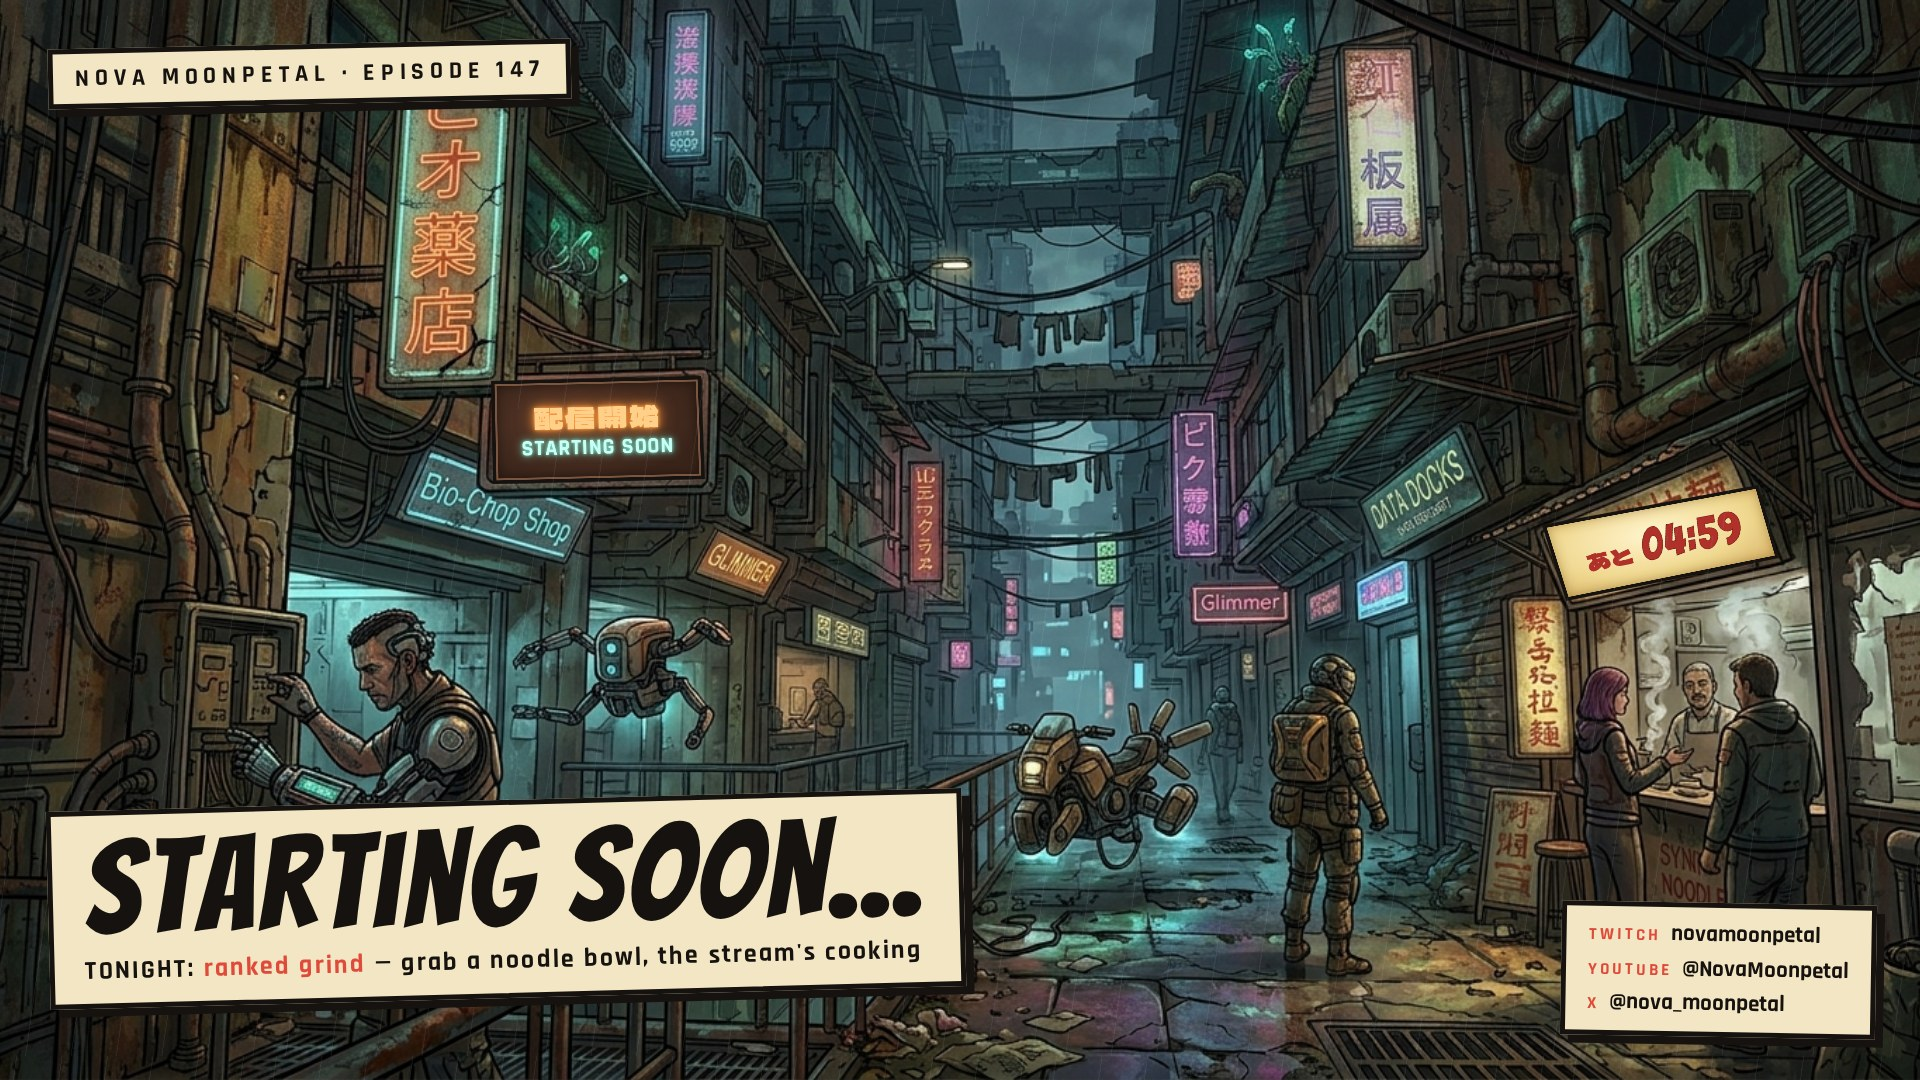
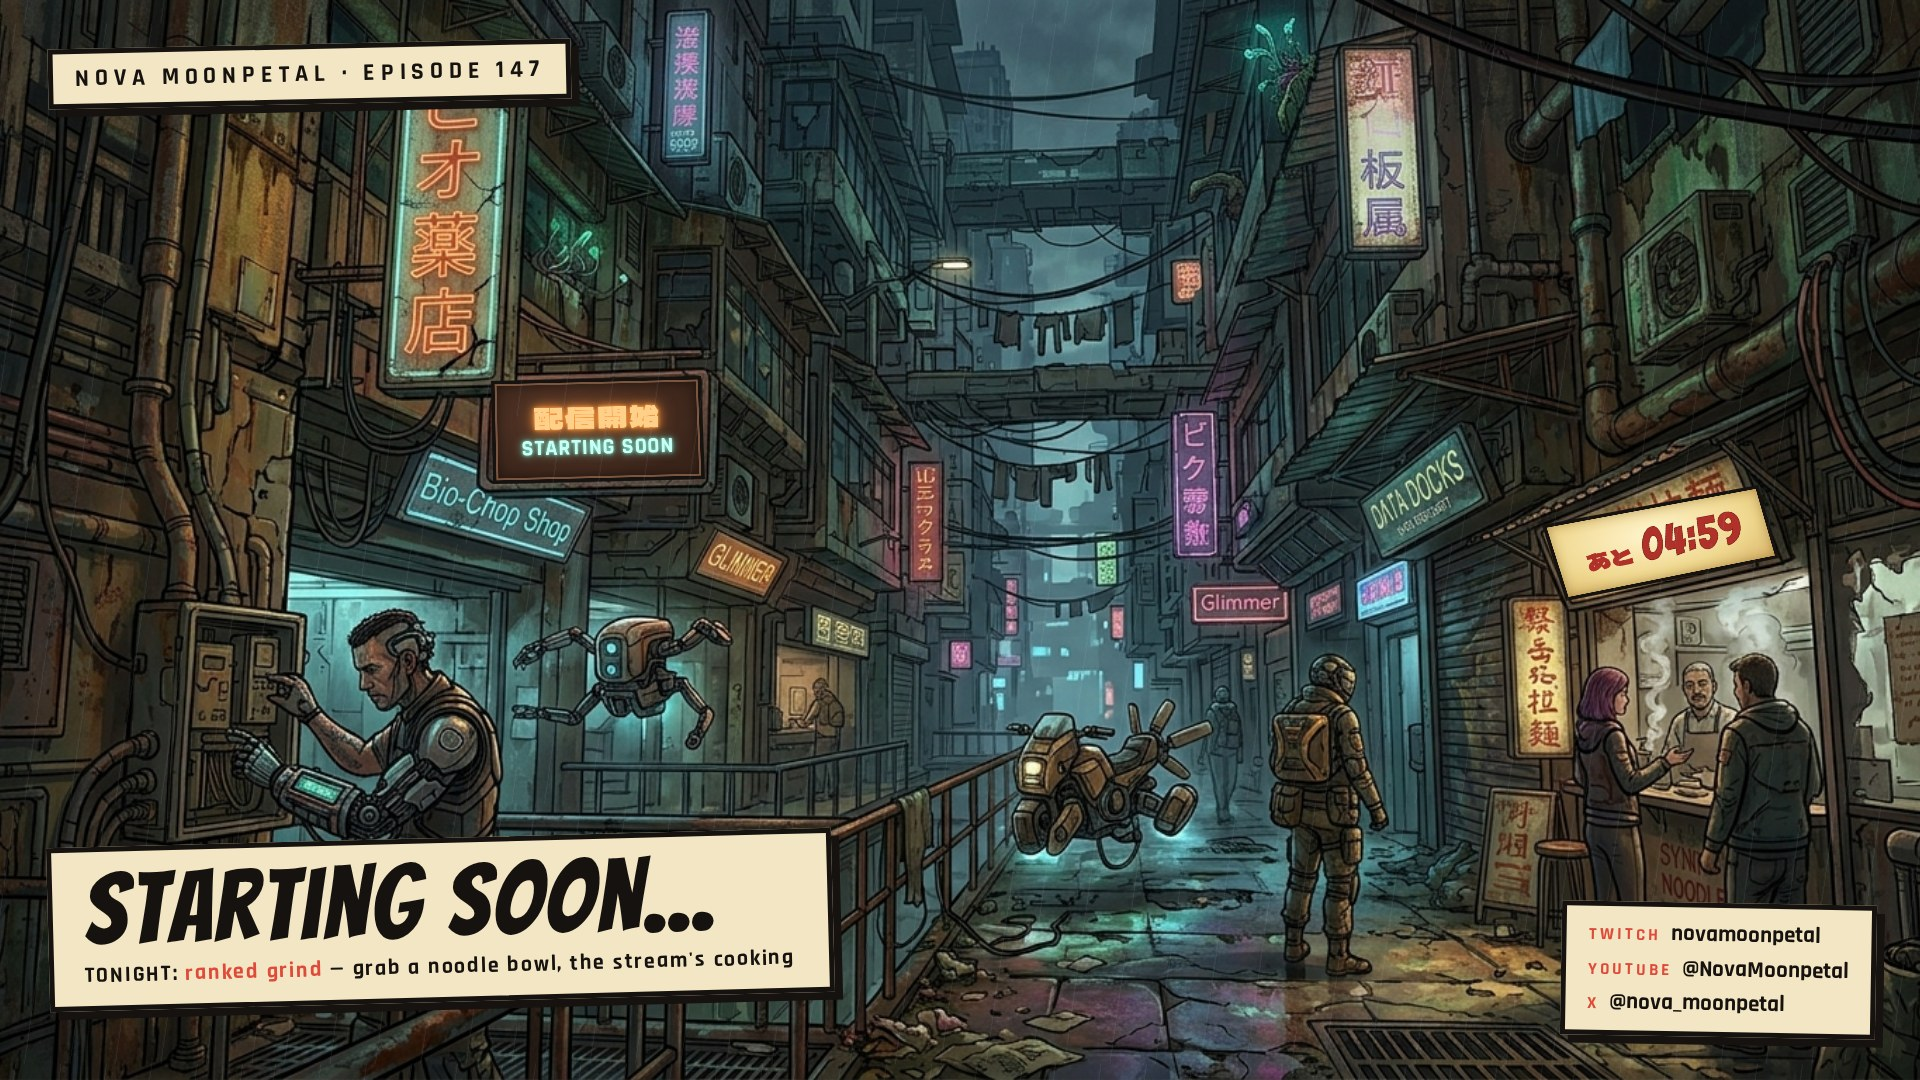
Let the background art show through the v4 overlays
- Start screens: replace full-width dark gradients with a corner
  shade behind the text only; smaller titles
- Live screens: no blur, light dimming, game window cut to 1280x720 so
  the right column and bottom show the art; chat moves under the game
- In-world signs stay visible on the live screens (NOVA'S TERRITORY;
  noodle-stand sign becomes the follower goal)

Claude-Session: https://claude.ai/code/session_01RqGbo7n9pbq5c1PJZY71Su

Changed region(s): [[0.0, 0.7333, 0.5312, 0.9472]]

diff --git a/mockups/v4/neon-street.html b/mockups/v4/neon-street.html
@@ -27,44 +27,44 @@
     .sign.cyan span { margin-top: 8px; font: 700 40px/1 "Barlow Condensed"; letter-spacing: 0.1em; color: #d8fbff; text-shadow: 0 0 10px var(--cyan), 0 0 22px var(--cyan); }
 
     /* ---- START: cinematic HUD ---- */
-    .shade-bottom { left: 0; right: 0; bottom: 0; height: 520px; background: linear-gradient(180deg, transparent, rgba(3, 3, 10, 0.72) 45%, rgba(3, 3, 10, 0.94)); }
-    .shade-left { left: 0; top: 0; bottom: 0; width: 1100px; background: linear-gradient(90deg, rgba(3, 3, 10, 0.55), transparent); }
+    .shade-bottom { left: 0; bottom: 0; width: 1200px; height: 420px; background: radial-gradient(ellipse 900px 380px at 0% 100%, rgba(3, 3, 10, 0.82), rgba(3, 3, 10, 0.5) 55%, transparent 80%); }
+    .shade-left { display: none; }
     .standby { left: 80px; top: 64px; display: flex; align-items: center; gap: 14px; font: 600 22px "Rajdhani"; letter-spacing: 0.4em; color: rgba(255, 255, 255, 0.85); }
     .standby i { width: 12px; height: 12px; border-radius: 50%; background: #ff3b5c; box-shadow: 0 0 12px #ff3b5c; animation: blink 1.2s steps(1) infinite; }
     @keyframes blink { 50% { opacity: 0.2; } }
-    .meta { left: 84px; top: 690px; font: 600 24px "Rajdhani"; letter-spacing: 0.32em; color: var(--cyan); text-shadow: 0 0 14px rgba(110, 243, 255, 0.6); }
-    .title { left: 76px; top: 718px; margin: 0; font: 700 176px/1 "Barlow Condensed"; letter-spacing: 0.01em; text-transform: uppercase; color: #fff; text-shadow: 0 6px 40px rgba(0, 0, 0, 0.6); }
-    .row { left: 84px; top: 918px; display: flex; align-items: center; gap: 34px; }
-    .count { font: 500 84px/1 "Barlow Condensed"; font-variant-numeric: tabular-nums; color: var(--amber); text-shadow: 0 0 22px rgba(255, 200, 97, 0.45); }
+    .meta { left: 84px; top: 764px; font: 700 24px "Rajdhani"; letter-spacing: 0.32em; color: var(--cyan); text-shadow: 0 2px 4px #000, 0 0 18px rgba(0, 0, 0, 0.9); }
+    .title { left: 78px; top: 790px; margin: 0; font: 700 128px/1 "Barlow Condensed"; letter-spacing: 0.01em; text-transform: uppercase; color: #fff; text-shadow: 0 4px 10px rgba(0, 0, 0, 0.7), 0 6px 40px rgba(0, 0, 0, 0.6); }
+    .row { left: 84px; top: 940px; display: flex; align-items: center; gap: 34px; }
+    .count { font: 500 72px/1 "Barlow Condensed"; font-variant-numeric: tabular-nums; color: var(--amber); text-shadow: 0 0 22px rgba(255, 200, 97, 0.45); }
     .vr { width: 2px; height: 70px; background: rgba(255, 255, 255, 0.3); }
     .tonight small { display: block; font: 600 18px "Rajdhani"; letter-spacing: 0.4em; color: rgba(255, 255, 255, 0.55); }
     .tonight b { font: 600 34px "Rajdhani"; letter-spacing: 0.02em; }
-    .socials { right: 80px; bottom: 60px; text-align: right; font: 600 24px/1.7 "Rajdhani"; letter-spacing: 0.04em; }
+    .socials { right: 60px; bottom: 44px; padding: 14px 22px; text-align: right; font: 600 22px/1.6 "Rajdhani"; letter-spacing: 0.04em; background: rgba(3, 3, 10, 0.55); backdrop-filter: blur(6px); }
     .socials span { color: var(--cyan); letter-spacing: 0.3em; font-size: 16px; margin-right: 12px; }
 
     /* ---- LIVE ---- */
-    .art.dim { filter: brightness(0.42) saturate(1.2) blur(2px); transform: scale(1.03); }
-    .game { left: 40px; top: 40px; width: 1392px; height: 783px; outline: 1px solid rgba(110, 243, 255, 0.55); outline-offset: 6px; box-shadow: 0 30px 60px rgba(0, 0, 0, 0.6); }
+    .art.dim { filter: brightness(0.9) saturate(1.1); }
+    .game { left: 40px; top: 40px; width: 1280px; height: 720px; outline: 1px solid rgba(110, 243, 255, 0.55); outline-offset: 6px; box-shadow: 0 30px 60px rgba(0, 0, 0, 0.6); }
     .game canvas { width: 100%; height: 100%; display: block; }
     .brk { position: absolute; width: 34px; height: 34px; border: 3px solid var(--cyan); filter: drop-shadow(0 0 6px var(--cyan)); }
     .tag { position: absolute; left: 22px; top: 20px; display: flex; align-items: center; gap: 10px; padding: 6px 16px; background: rgba(5, 6, 11, 0.75); font: 700 20px "Rajdhani"; letter-spacing: 0.3em; }
     .tag i { width: 10px; height: 10px; border-radius: 50%; background: #ff3b5c; box-shadow: 0 0 10px #ff3b5c; }
     .tag b { font-weight: 500; letter-spacing: 0.1em; color: rgba(255, 255, 255, 0.7); }
-    .chat { left: 1470px; top: 40px; width: 410px; height: 540px; padding: 18px 20px; background: linear-gradient(180deg, rgba(5, 6, 11, 0.78), rgba(5, 6, 11, 0.55)); border-left: 2px solid var(--cyan); backdrop-filter: blur(10px); }
+    .chat { left: 700px; top: 792px; width: 620px; height: 248px; padding: 14px 20px; overflow: hidden; background: rgba(5, 6, 11, 0.62); border-left: 2px solid var(--cyan); backdrop-filter: blur(8px); }
     .chat h4 { margin: 0 0 12px; font: 700 18px "Rajdhani"; letter-spacing: 0.4em; color: var(--cyan); }
-    .chat .m { margin-bottom: 14px; font: 500 23px/1.3 "Rajdhani"; color: rgba(255, 255, 255, 0.92); }
+    .chat .m { margin-bottom: 6px; font: 500 22px/1.3 "Rajdhani"; color: rgba(255, 255, 255, 0.92); }
     .chat .m b { font-weight: 700; margin-right: 8px; }
-    .goal { left: 1470px; top: 604px; width: 410px; }
+    .goal { left: 1360px; top: 40px; width: 520px; padding: 12px 16px 14px; background: rgba(5, 6, 11, 0.55); backdrop-filter: blur(6px); }
     .goal .t { display: flex; justify-content: space-between; font: 700 17px "Rajdhani"; letter-spacing: 0.3em; color: rgba(255, 255, 255, 0.7); }
     .goal .t b { color: var(--amber); letter-spacing: 0.05em; font-size: 20px; }
     .goal .bar { height: 4px; margin-top: 10px; background: rgba(255, 255, 255, 0.15); }
     .goal .bar i { display: block; height: 100%; width: 74%; background: var(--amber); box-shadow: 0 0 12px var(--amber); }
-    .lvmodel { left: 1490px; top: 660px; width: 380px; height: 420px; }
-    .name { left: 40px; top: 866px; }
+    .lvmodel { left: 1400px; top: 620px; width: 460px; height: 460px; }
+    .name { left: 40px; top: 792px; width: 630px; height: 248px; padding: 20px 24px; background: rgba(5, 6, 11, 0.62); backdrop-filter: blur(8px); }
     .name small { display: block; font: 600 20px "Rajdhani"; letter-spacing: 0.4em; color: var(--cyan); }
-    .name b { display: block; font: 700 96px/1 "Barlow Condensed"; letter-spacing: 0.01em; text-transform: uppercase; }
+    .name b { display: block; margin: 6px 0 10px; font: 700 82px/1 "Barlow Condensed"; letter-spacing: 0.01em; text-transform: uppercase; }
     .name span { font: 600 22px "Rajdhani"; letter-spacing: 0.06em; color: rgba(255, 255, 255, 0.6); }
-    .alert { left: 400px; top: 170px; width: 680px; height: 250px; transform: perspective(1400px) rotateY(-10deg) rotateZ(-2deg); }
+    .alert { left: 340px; top: 150px; width: 680px; height: 250px; transform: perspective(1400px) rotateY(-10deg) rotateZ(-2deg); }
     .alert .sign.pink { width: 680px; height: 250px; }
     .alert .sign.pink small { font: 700 26px "Rajdhani"; letter-spacing: 0.5em; color: #ffd6ea; text-shadow: 0 0 10px var(--pink); margin-bottom: 6px; }
   </style>
@@ -99,6 +99,7 @@
   <!-- ================= LIVE ================= -->
   <section class="screen">
     <div class="art dim"></div>
+    <div class="sign pink flicker" data-quad="1692,465 1898,324 1914,456 1702,555"><b>NOVA'S</b><span>TERRITORY</span></div>
     <div class="abs rain" style="opacity:.2"></div>
     <div class="abs game">
       <canvas id="g1"></canvas>
@@ -114,8 +115,6 @@
       <div class="m"><b style="color:#ff4fa3">moonlit_kay</b>this city bg is insane</div>
       <div class="m"><b style="color:#ffc861">pixelpudding</b>!lurk</div>
       <div class="m"><b style="color:#a86bff">hanabi</b>o7 night city vibes</div>
-      <div class="m"><b style="color:#6ef3ff">cometcat</b>first time here, hi!</div>
-      <div class="m"><b style="color:#ff4fa3">nightowl</b>the rain sfx tho</div>
     </div>
     <div class="abs goal"><div class="t"><span>FOLLOWER GOAL</span><b>742 / 1000</b></div><div class="bar"><i></i></div></div>
     <div class="abs lvmodel" id="lvm"></div>

diff --git a/mockups/v4/ink-alley.html b/mockups/v4/ink-alley.html
@@ -27,21 +27,21 @@
     /* ---- comic caption boxes ---- */
     .cap { position: absolute; background: var(--paper); border: 5px solid var(--ink); box-shadow: 8px 8px 0 var(--ink); }
     .cap.small { left: 48px; top: 44px; padding: 10px 22px; font: 700 24px "Rajdhani"; letter-spacing: 0.24em; transform: rotate(-1.2deg); }
-    .cap.title { left: 48px; top: 800px; padding: 12px 34px 16px 30px; transform: rotate(-1.5deg); }
-    .cap.title b { display: block; font: 400 132px/0.92 "Bangers"; letter-spacing: 0.03em; color: var(--ink); }
-    .cap.title span { display: block; margin-top: 6px; font: 700 26px "Rajdhani"; letter-spacing: 0.08em; }
+    .cap.title { left: 48px; top: 838px; padding: 12px 34px 16px 30px; transform: rotate(-1.5deg); }
+    .cap.title b { display: block; font: 400 100px/0.92 "Bangers"; letter-spacing: 0.03em; color: var(--ink); }
+    .cap.title span { display: block; margin-top: 6px; font: 700 22px "Rajdhani"; letter-spacing: 0.08em; }
     .cap.title span em { font-style: normal; color: var(--red); }
     .cap.soc { right: 44px; bottom: 44px; padding: 10px 22px; font: 700 23px/1.5 "Rajdhani"; transform: rotate(1deg); }
     .cap.soc b { color: var(--red); letter-spacing: 0.18em; font-size: 17px; margin-right: 10px; }
 
     /* ---- LIVE: comic page layout over the art ---- */
-    .art.dim { filter: brightness(0.5) saturate(1.1); }
+    .art.dim { filter: brightness(0.92); }
     .panel { position: absolute; border: 8px solid var(--ink); box-shadow: 10px 10px 0 rgba(22, 18, 15, 0.85); background: var(--paper); }
-    .gp { left: 40px; top: 40px; width: 1400px; height: 788px; transform: rotate(-0.4deg); }
+    .gp { left: 40px; top: 40px; width: 1280px; height: 720px; transform: rotate(-0.4deg); }
     .gp canvas { display: block; width: 100%; height: 100%; }
     .gp .lbl { position: absolute; left: -8px; top: -8px; padding: 6px 18px; background: var(--red); color: #fff; font: 400 34px "Bangers"; letter-spacing: 0.08em; border: 6px solid var(--ink); }
-    .bubbles { left: 1478px; top: 44px; width: 406px; }
-    .bub { position: relative; margin-bottom: 26px; padding: 12px 18px 14px; background: #fff; border: 5px solid var(--ink); border-radius: 26px; font: 600 23px/1.25 "Rajdhani"; }
+    .bubbles { left: 700px; top: 800px; width: 620px; display: grid; grid-template-columns: 1fr 1fr; gap: 0 18px; }
+    .bub { position: relative; margin-bottom: 32px; padding: 8px 16px 10px; background: #fff; border: 5px solid var(--ink); border-radius: 26px; font: 600 23px/1.25 "Rajdhani"; }
     .bub b { display: block; font: 400 22px "Bangers"; letter-spacing: 0.06em; color: var(--red); }
     .bub::before, .bub::after { content: ""; position: absolute; clip-path: polygon(0 0, 100% 0, 12% 100%); }
     .bub::before { left: 30px; bottom: -30px; width: 38px; height: 30px; background: var(--ink); }
@@ -49,16 +49,16 @@
     .bub:nth-child(even)::before, .bub:nth-child(even)::after { left: auto; clip-path: polygon(0 0, 100% 0, 88% 100%); }
     .bub:nth-child(even)::before { right: 30px; }
     .bub:nth-child(even)::after { right: 37px; }
-    .goal { left: 1478px; top: 616px; width: 406px; padding: 10px 16px 14px; transform: rotate(0.8deg); }
+    .goal { display: none; }
     .goal .t { display: flex; justify-content: space-between; font: 400 26px "Bangers"; letter-spacing: 0.06em; }
     .goal .t b { color: var(--red); font-weight: 400; }
     .goal .bar { height: 20px; margin-top: 6px; border: 4px solid var(--ink); background: #fff; }
     .goal .bar i { display: block; height: 100%; width: 74%; background: repeating-linear-gradient(-45deg, var(--amber) 0 10px, #ff9a2a 10px 20px); border-right: 4px solid var(--ink); }
-    .lvmodel { left: 1480px; top: 700px; width: 400px; height: 380px; }
-    .namecap { left: 40px; top: 872px; padding: 10px 30px 14px; transform: rotate(-1deg); }
-    .namecap b { display: block; font: 400 88px/0.95 "Bangers"; letter-spacing: 0.03em; }
+    .lvmodel { left: 1420px; top: 640px; width: 440px; height: 440px; }
+    .namecap { left: 40px; top: 800px; padding: 10px 30px 14px; transform: rotate(-1deg); }
+    .namecap b { display: block; font: 400 76px/0.95 "Bangers"; letter-spacing: 0.03em; }
     .namecap span { font: 700 22px "Rajdhani"; letter-spacing: 0.08em; }
-    .alert { left: 420px; top: 150px; width: 700px; height: 300px; }
+    .alert { left: 330px; top: 140px; width: 700px; height: 300px; }
     .burst { position: absolute; inset: 0; }
     .alert .txt { position: absolute; left: 0; right: 0; top: 70px; text-align: center; }
     .alert .txt small { display: inline-block; padding: 4px 16px; background: var(--ink); color: var(--amber); font: 400 30px "Bangers"; letter-spacing: 0.12em; transform: rotate(-2deg); }
@@ -93,7 +93,8 @@
       <div class="bub"><b>PIXELPUDDING</b>one syntho-noodle pls</div>
       <div class="bub"><b>HANABI</b>o7 alley gang</div>
     </div>
-    <div class="panel goal"><div class="t"><span>FOLLOWER GOAL</span><b>742 / 1000</b></div><div class="bar"><i></i></div></div>
+    <div class="board paper" data-quad="1542,525 1758,485 1779,558 1566,601"><div class="row"><span class="jp">目標</span><b style="font-size:66px">742/1000</b></div></div>
+    <div class="abs cap" style="left:1370px; top:420px; padding:6px 16px; font:400 26px 'Bangers'; letter-spacing:.06em; transform:rotate(2deg)">FOLLOWER GOAL ↘</div>
     <div class="abs lvmodel" id="lvm"></div>
     <div class="panel namecap"><b>Nova Moonpetal</b><span>twitch.tv/novamoonpetal · @nova_moonpetal</span></div>
     <div class="abs alert">

diff --git a/mockups/v4/fonts/fonts.css b/mockups/v4/fonts/fonts.css
@@ -432,38 +432,38 @@
   font-style: normal;
   font-weight: 400;
   font-display: block;
-  src: url(64eaa3d8d0.woff2) format('woff2');
-  unicode-range: U+20-7e, U+3042, U+3044, U+3046, U+304b-304c, U+304f-3050, U+3057-3058, U+3068-306a, U+307e, U+3082, U+308a, U+3094, U+3099, U+30a9, U+30d5-30d6, U+30ed, U+30ef, U+30f7, U+30fc, U+4e2d, U+4fe1, U+591c, U+59cb, U+5c4b, U+5e02, U+65b0, U+6708, U+8133, U+914d, U+958b, U+96fb, U+9eba;
+  src: url(00f5462cb0.woff2) format('woff2');
+  unicode-range: U+20-7e, U+2014, U+2198, U+3042, U+3044, U+3046, U+304b-304c, U+304f-3050, U+3057-3058, U+3068-306a, U+307e, U+3082, U+308a, U+3094, U+3099, U+30a9, U+30d5-30d6, U+30ed, U+30ef, U+30f7, U+30fc, U+4e2d, U+4fe1, U+591c, U+59cb, U+5c4b, U+5e02, U+65b0, U+6708, U+6a19, U+76ee, U+8133, U+914d, U+958b, U+96fb, U+9eba;
 }
 @font-face {
   font-family: 'DotGothic16';
   font-style: normal;
   font-weight: 400;
   font-display: block;
-  src: url(0b0d97289a.woff2) format('woff2');
-  unicode-range: U+20-7e, U+3042, U+3044, U+3046, U+304b-304c, U+304f-3050, U+3057-3058, U+3068-306a, U+307e, U+3082, U+308a, U+3094, U+3099, U+30a9, U+30d5-30d6, U+30ed, U+30ef, U+30f7, U+30fc, U+4e2d, U+4fe1, U+591c, U+59cb, U+5c4b, U+5e02, U+65b0, U+6708, U+8133, U+914d, U+958b, U+96fb, U+9eba;
+  src: url(15ef605a20.woff2) format('woff2');
+  unicode-range: U+20-7e, U+2014, U+2198, U+3042, U+3044, U+3046, U+304b-304c, U+304f-3050, U+3057-3058, U+3068-306a, U+307e, U+3082, U+308a, U+3094, U+3099, U+30a9, U+30d5-30d6, U+30ed, U+30ef, U+30f7, U+30fc, U+4e2d, U+4fe1, U+591c, U+59cb, U+5c4b, U+5e02, U+65b0, U+6708, U+6a19, U+76ee, U+8133, U+914d, U+958b, U+96fb, U+9eba;
 }
 @font-face {
   font-family: 'M PLUS Rounded 1c';
   font-style: normal;
   font-weight: 500;
   font-display: block;
-  src: url(a87679ce0f.woff2) format('woff2');
-  unicode-range: U+20-7e, U+3042, U+3044, U+3046, U+304b-304c, U+304f-3050, U+3057-3058, U+3068-306a, U+307e, U+3082, U+308a, U+3094, U+3099, U+30a9, U+30d5-30d6, U+30ed, U+30ef, U+30f7, U+30fc, U+4e2d, U+4fe1, U+591c, U+59cb, U+5c4b, U+5e02, U+65b0, U+6708, U+8133, U+914d, U+958b, U+96fb, U+9eba;
+  src: url(35b6b61c14.woff2) format('woff2');
+  unicode-range: U+20-7e, U+2014, U+2198, U+3042, U+3044, U+3046, U+304b-304c, U+304f-3050, U+3057-3058, U+3068-306a, U+307e, U+3082, U+308a, U+3094, U+3099, U+30a9, U+30d5-30d6, U+30ed, U+30ef, U+30f7, U+30fc, U+4e2d, U+4fe1, U+591c, U+59cb, U+5c4b, U+5e02, U+65b0, U+6708, U+6a19, U+76ee, U+8133, U+914d, U+958b, U+96fb, U+9eba;
 }
 @font-face {
   font-family: 'M PLUS Rounded 1c';
   font-style: normal;
   font-weight: 800;
   font-display: block;
-  src: url(9b13ed3b14.woff2) format('woff2');
-  unicode-range: U+20-7e, U+3042, U+3044, U+3046, U+304b-304c, U+304f-3050, U+3057-3058, U+3068-306a, U+307e, U+3082, U+308a, U+3094, U+3099, U+30a9, U+30d5-30d6, U+30ed, U+30ef, U+30f7, U+30fc, U+4e2d, U+4fe1, U+591c, U+59cb, U+5c4b, U+5e02, U+65b0, U+6708, U+8133, U+914d, U+958b, U+96fb, U+9eba;
+  src: url(e2b1cd7d14.woff2) format('woff2');
+  unicode-range: U+20-7e, U+2014, U+2198, U+3042, U+3044, U+3046, U+304b-304c, U+304f-3050, U+3057-3058, U+3068-306a, U+307e, U+3082, U+308a, U+3094, U+3099, U+30a9, U+30d5-30d6, U+30ed, U+30ef, U+30f7, U+30fc, U+4e2d, U+4fe1, U+591c, U+59cb, U+5c4b, U+5e02, U+65b0, U+6708, U+6a19, U+76ee, U+8133, U+914d, U+958b, U+96fb, U+9eba;
 }
 @font-face {
   font-family: 'Rampart One';
   font-style: normal;
   font-weight: 400;
   font-display: block;
-  src: url(9b20077a70.woff2) format('woff2');
-  unicode-range: U+20-7e, U+3042, U+3044, U+3046, U+304b-304c, U+304f-3050, U+3057-3058, U+3068-306a, U+307e, U+3082, U+308a, U+3094, U+3099, U+30a9, U+30d5-30d6, U+30ed, U+30ef, U+30f7, U+30fc, U+4e2d, U+4fe1, U+591c, U+59cb, U+5c4b, U+5e02, U+65b0, U+6708, U+8133, U+914d, U+958b, U+96fb, U+9eba;
+  src: url(010dc90742.woff2) format('woff2');
+  unicode-range: U+20-7e, U+2014, U+2198, U+3042, U+3044, U+3046, U+304b-304c, U+304f-3050, U+3057-3058, U+3068-306a, U+307e, U+3082, U+308a, U+3094, U+3099, U+30a9, U+30d5-30d6, U+30ed, U+30ef, U+30f7, U+30fc, U+4e2d, U+4fe1, U+591c, U+59cb, U+5c4b, U+5e02, U+65b0, U+6708, U+6a19, U+76ee, U+8133, U+914d, U+958b, U+96fb, U+9eba;
 }
